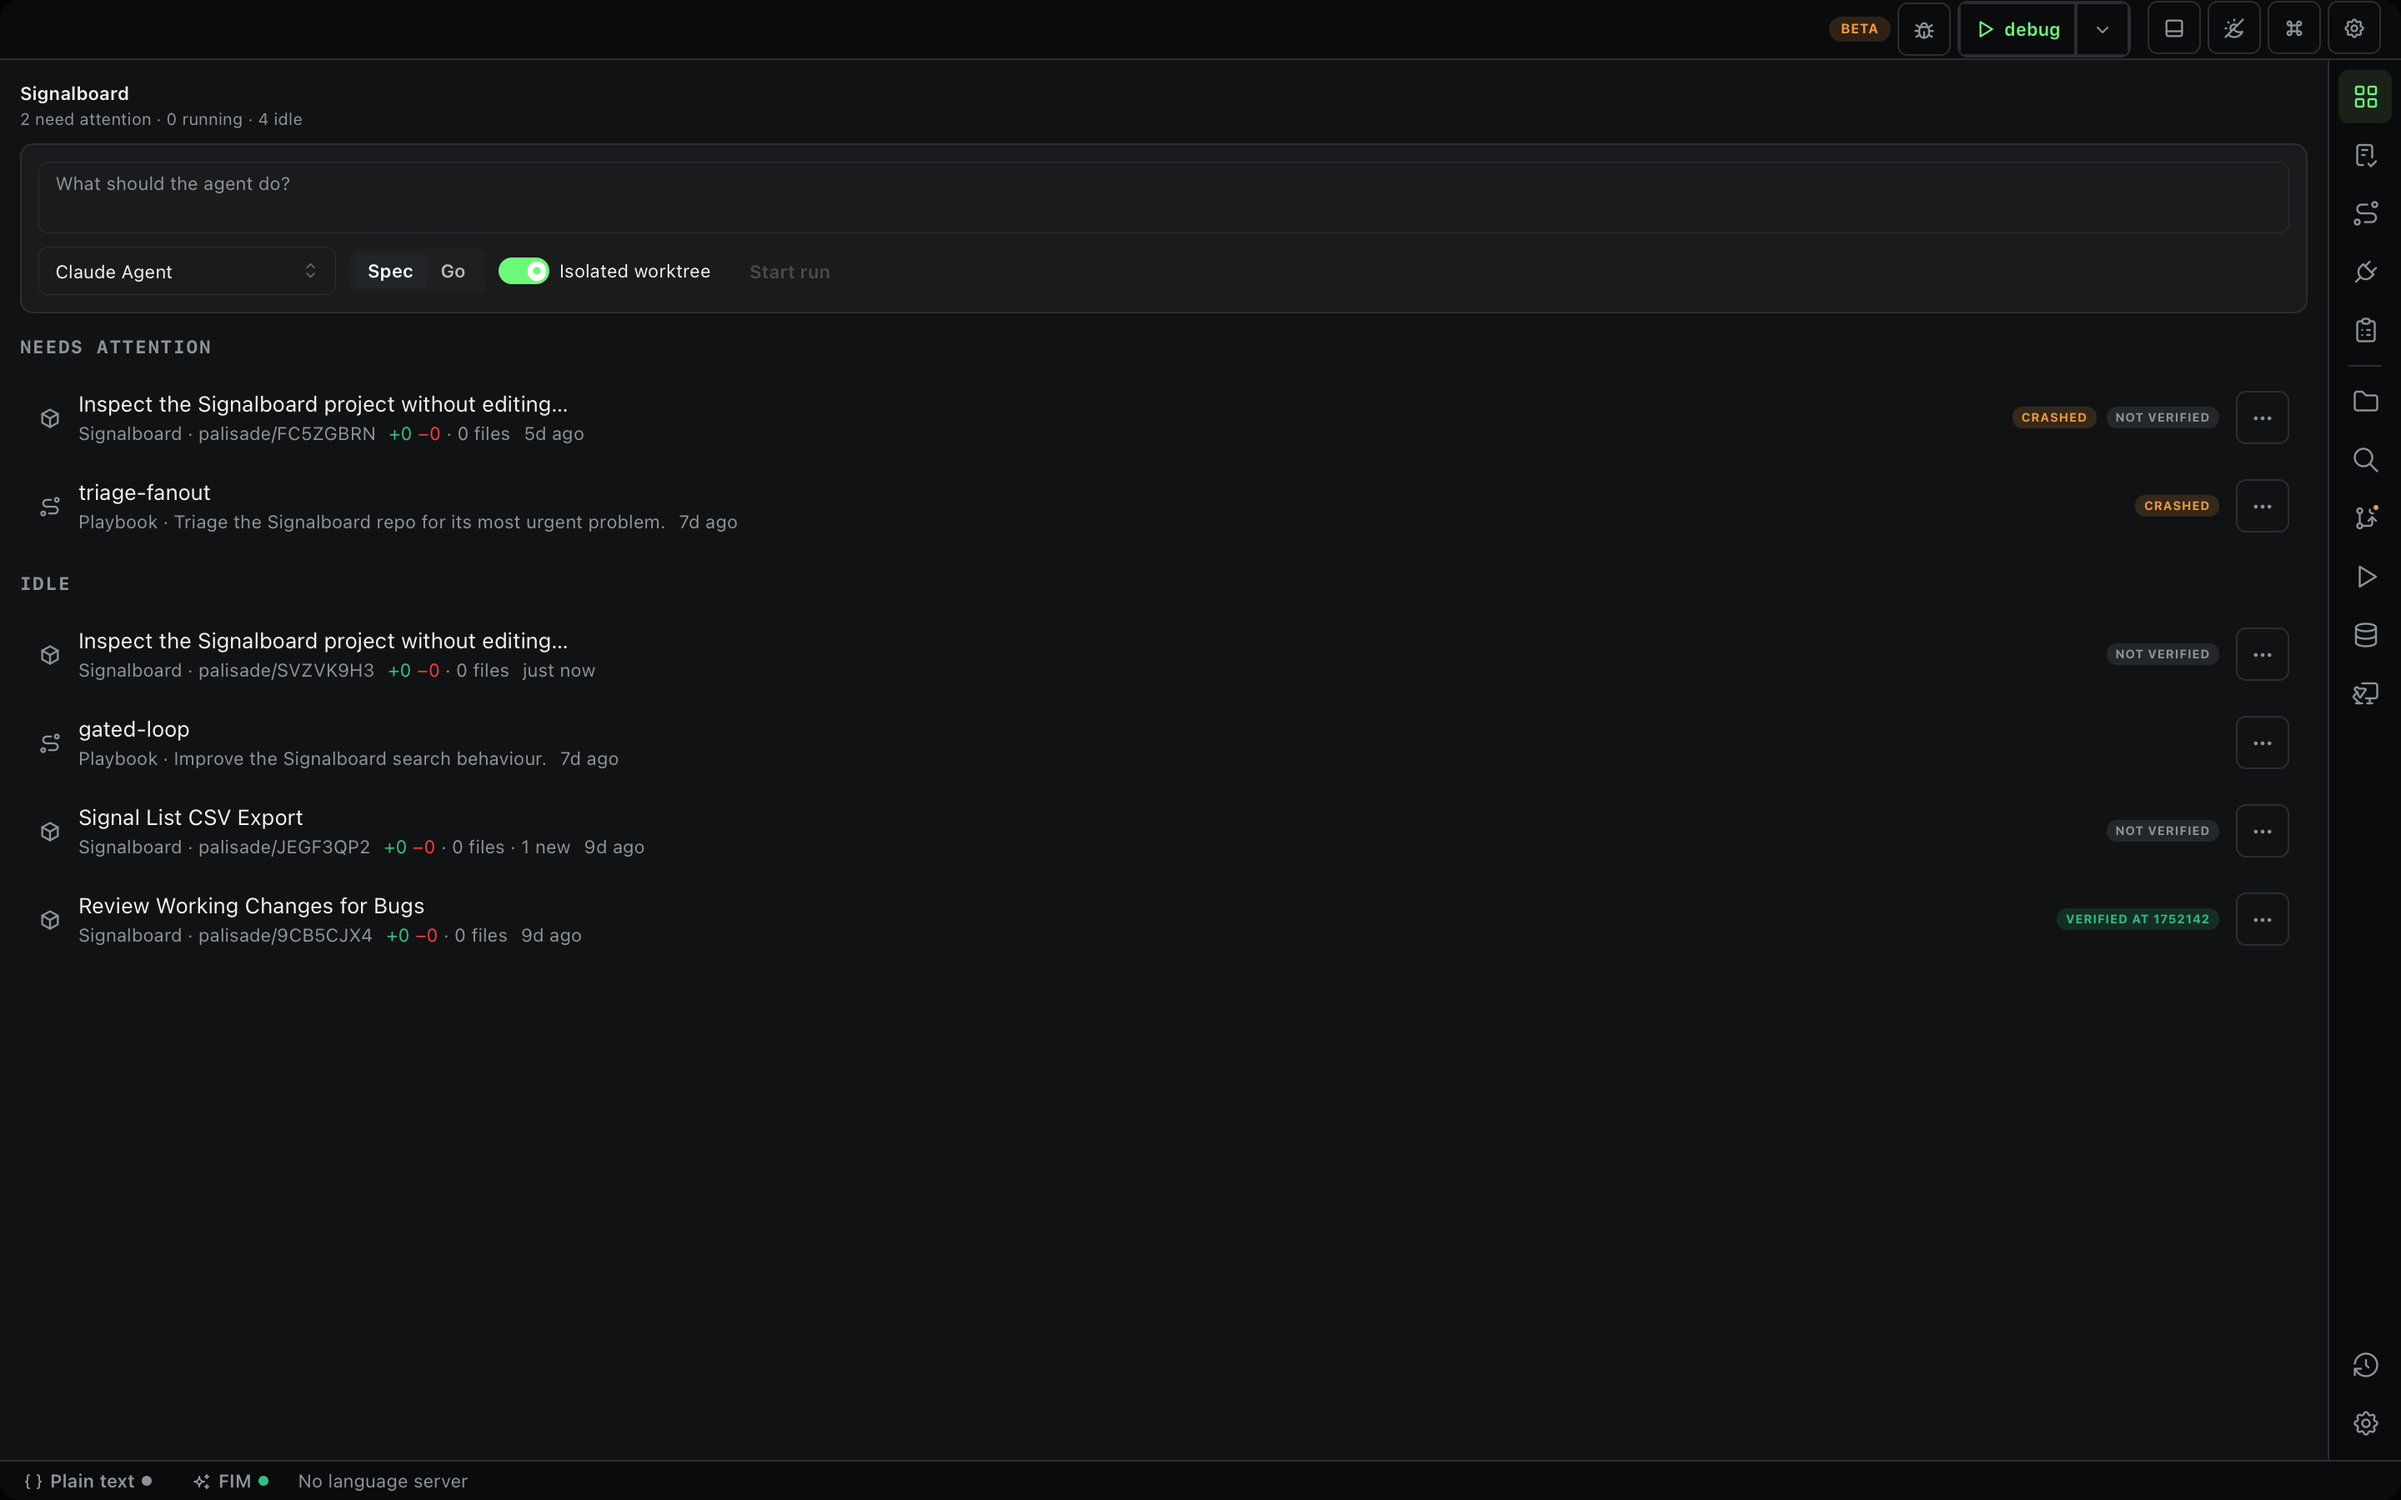
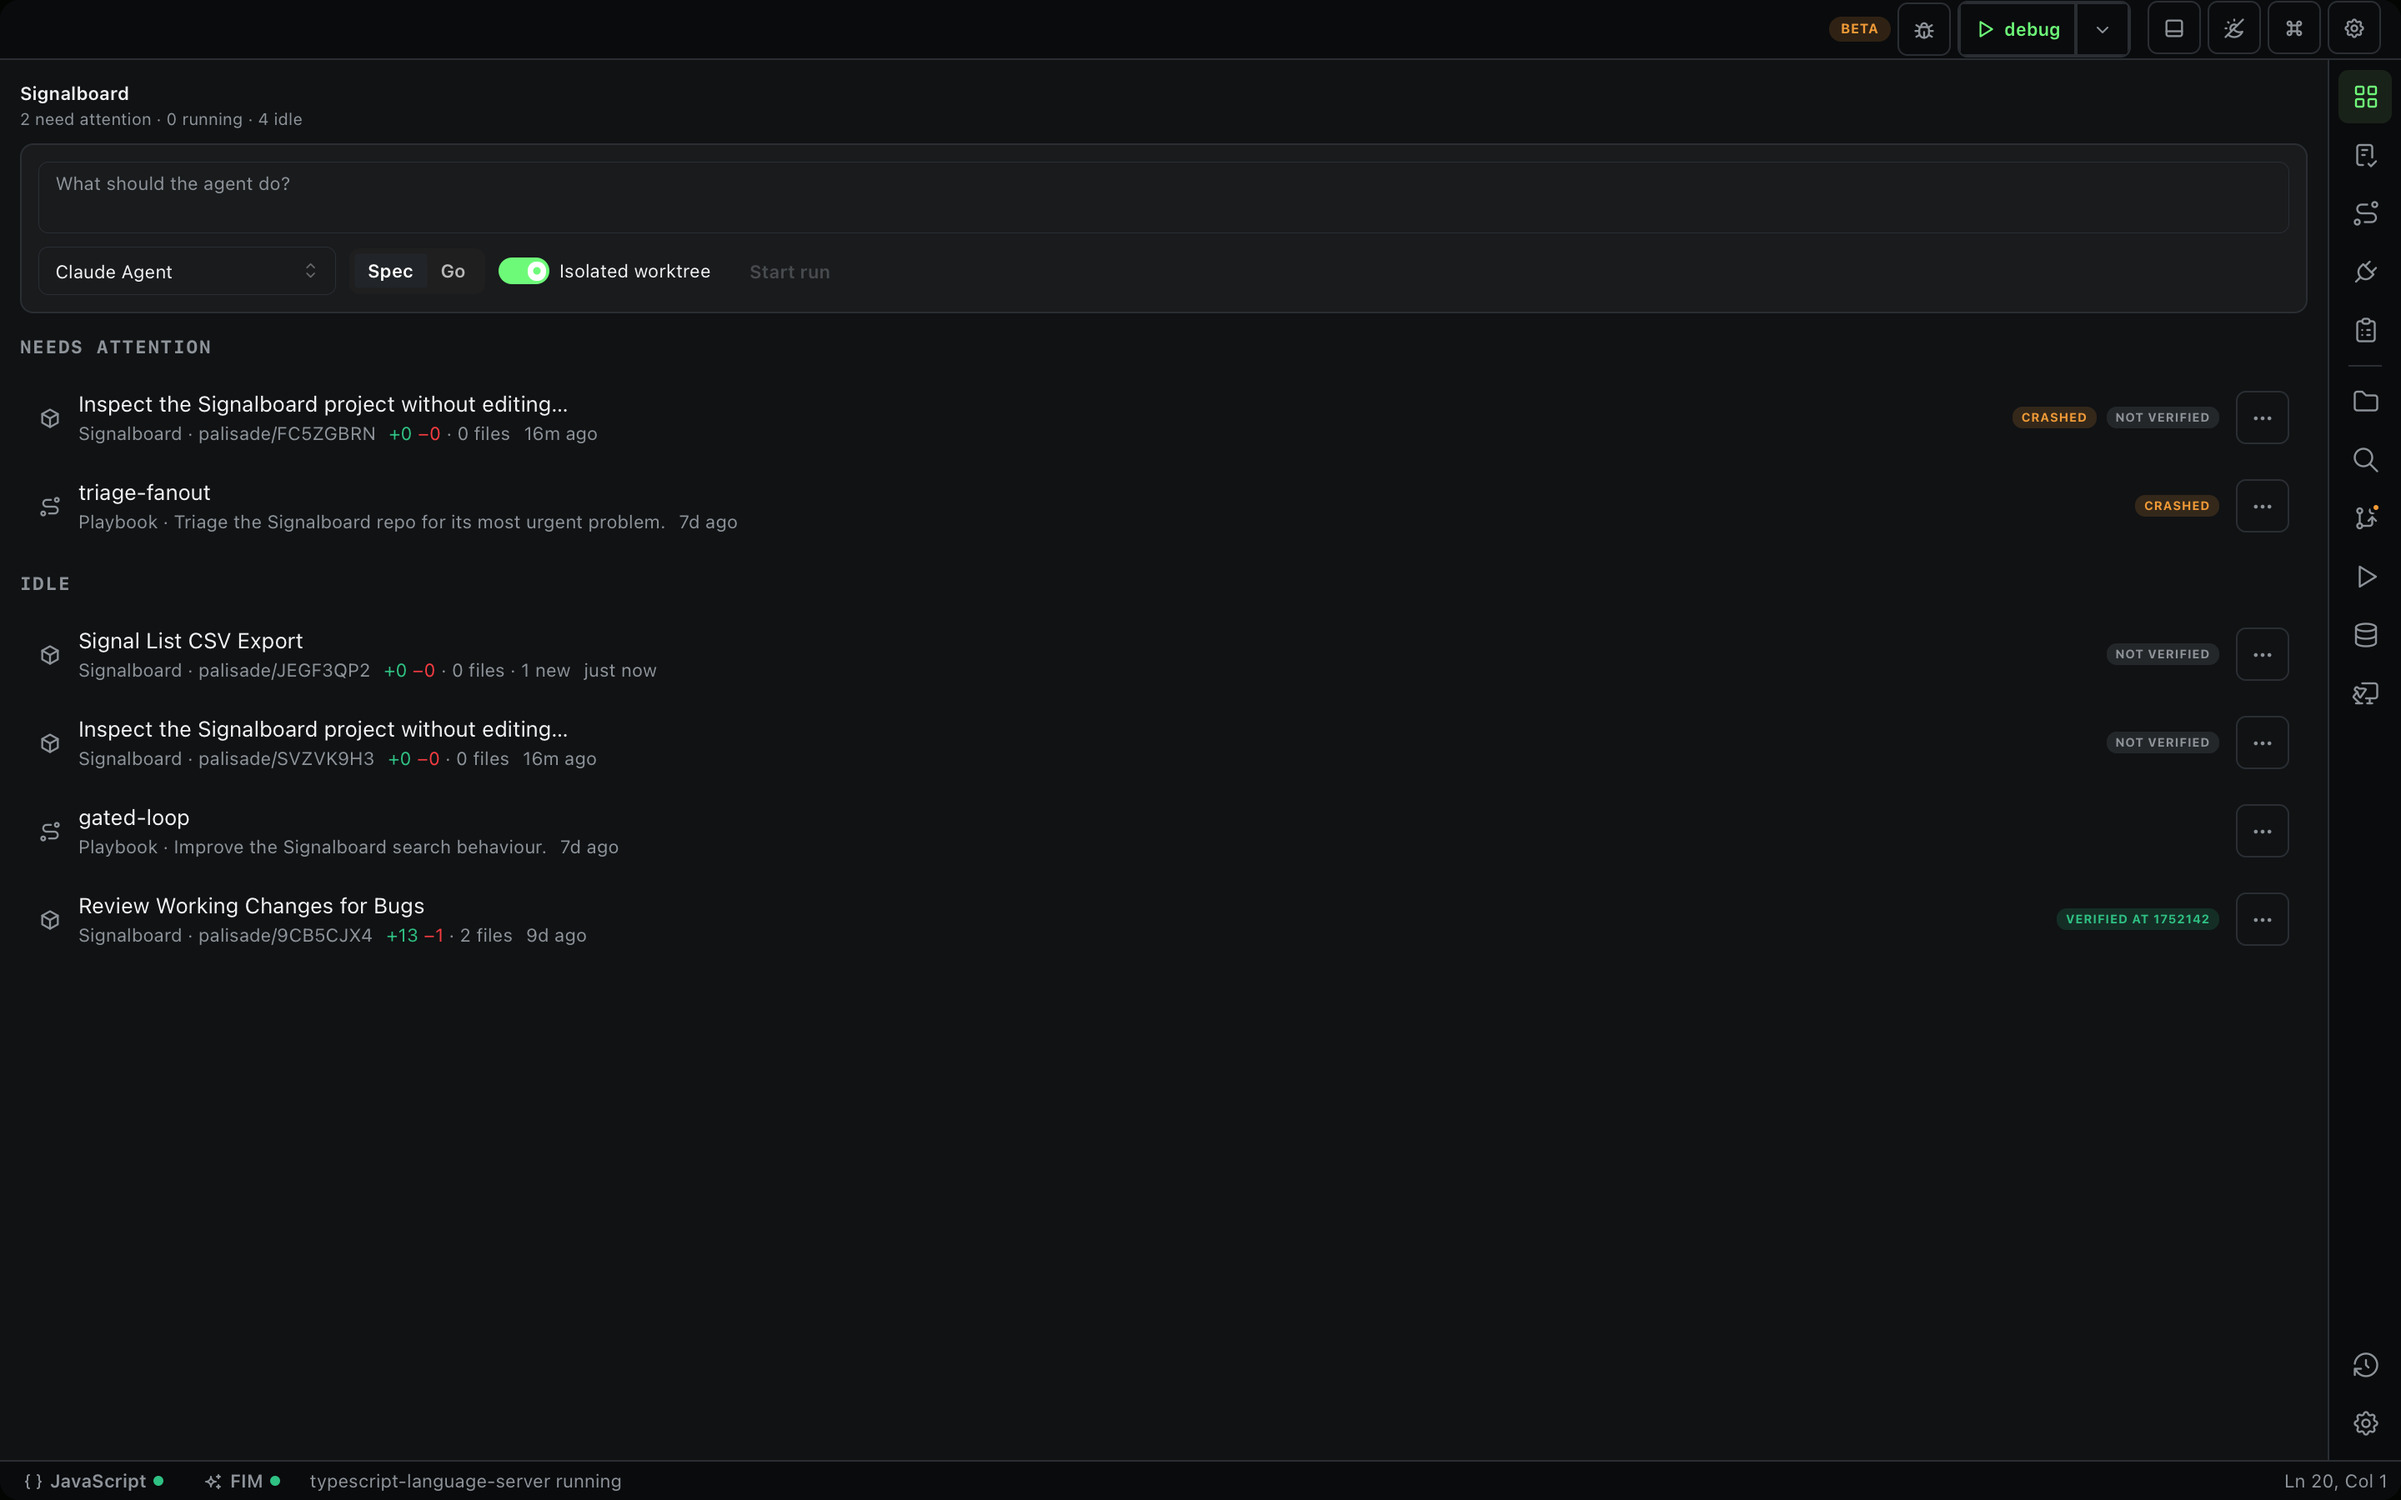
docs(ade): before/after screenshots for the ADE pivot PR; tick ade-pivot tasks
Claude-Session: https://claude.ai/code/session_014a8QPkdxBDxd7WP8vBSeG4

diff --git a/openspec/changes/ade-pivot/tasks.md b/openspec/changes/ade-pivot/tasks.md
@@ -8,33 +8,33 @@
 
 ## 2. Fleet backend
 
-- [ ] 2.1 Add `fleet_overview` IPC command in `src-tauri/src/fleet.rs` returning, per thread: status (idle/running/attention), agent, project, branch, worktree, diff stat (+/-/files), files touched, last verify (pass/fail/not-run, cmd, commit), merge readiness, and overlap (files touched by 2+ live threads in the same project).
-- [ ] 2.2 Register the command in `generate_handler!` (`lib.rs`) and add a typed wrapper in `src/api.ts`.
-- [ ] 2.3 `cd src-tauri && cargo test fleet::` green.
+- [x] 2.1 Add `fleet_overview` IPC command in `src-tauri/src/fleet.rs` returning, per thread: status (idle/running/attention), agent, project, branch, worktree, diff stat (+/-/files), files touched, last verify (pass/fail/not-run, cmd, commit), merge readiness, and overlap (files touched by 2+ live threads in the same project).
+- [x] 2.2 Register the command in `generate_handler!` (`lib.rs`) and add a typed wrapper in `src/api.ts`.
+- [x] 2.3 `cd src-tauri && cargo test fleet::` green.
 
 ## 3. Fleet board UI
 
-- [ ] 3.1 Build `src/FleetBoard.tsx` as the home view, grouped Needs attention / Running / Idle, with row fields (agent glyph, title, project·branch, diff stat, verify badge, overlap warning) and actions (Open/Review/Stop/Merge/PR/Archive).
-- [ ] 3.2 Add a "New run" composer (prompt + agent + mode + isolated worktree in one step).
-- [ ] 3.3 Update `NavRail.tsx` to put Fleet first and group IDE panels under Workbench; update `App.tsx` routing/default panel and `App.css` as needed.
-- [ ] 3.4 `npx vitest run src/__tests__/FleetBoard.test.tsx` green; app boots to Fleet.
+- [x] 3.1 Build `src/FleetBoard.tsx` as the home view, grouped Needs attention / Running / Idle, with row fields (agent glyph, title, project·branch, diff stat, verify badge, overlap warning) and actions (Open/Review/Stop/Merge/PR/Archive).
+- [x] 3.2 Add a "New run" composer (prompt + agent + mode + isolated worktree in one step).
+- [x] 3.3 Update `NavRail.tsx` to put Fleet first and group IDE panels under Workbench; update `App.tsx` routing/default panel and `App.css` as needed.
+- [x] 3.4 `npx vitest run src/__tests__/FleetBoard.test.tsx` green; app boots to Fleet.
 
 ## 4. Review lane
 
-- [ ] 4.1 Build `src/ReviewPane.tsx` composing `DiffPane` (inline/side-by-side) with per-file Viewed state persisted per thread.
-- [ ] 4.2 Add a verify evidence strip and a `MergeGate` action; Merge enabled only on a green verify or an explicit override.
-- [ ] 4.3 Add j/k file navigation; wire `App.tsx` and `api.ts` if Viewed-state persistence needs IPC.
-- [ ] 4.4 `npx vitest run src/__tests__/ReviewPane.test.tsx` green.
+- [x] 4.1 Build `src/ReviewPane.tsx` composing `DiffPane` (inline/side-by-side) with per-file Viewed state persisted per thread.
+- [x] 4.2 Add a verify evidence strip and a `MergeGate` action; Merge enabled only on a green verify or an explicit override.
+- [x] 4.3 Add j/k file navigation; wire `App.tsx` and `api.ts` if Viewed-state persistence needs IPC.
+- [x] 4.4 `npx vitest run src/__tests__/ReviewPane.test.tsx` green.
 
 ## 5. Sidebar + thread header
 
-- [ ] 5.1 Update `SessionList.tsx` rows: 3-state dot, diff stat, agent glyph, overlap badge, grouped by status.
-- [ ] 5.2 Update the open thread's header in `App.tsx` to show branch + verify badge.
-- [ ] 5.3 `npx vitest run src/__tests__/SessionList.test.tsx` green.
+- [x] 5.1 Update `SessionList.tsx` rows: 3-state dot, diff stat, agent glyph, overlap badge, grouped by status.
+- [x] 5.2 Update the open thread's header in `App.tsx` to show branch + verify badge.
+- [x] 5.3 `npx vitest run src/__tests__/SessionList.test.tsx` green.
 
 ## 6. Gate + after-screenshots + PR
 
-- [ ] 6.1 Run `pnpm test`, `cd src-tauri && cargo test`, `npx tsc --noEmit`.
-- [ ] 6.2 Run the app; capture an after-screenshot set matching `docs/pr/ade-pivot/before/*.png`.
-- [ ] 6.3 Commit before/after screenshot sets to `docs/pr/ade-pivot/`.
-- [ ] 6.4 Open the PR with a before/after table; record the PR URL.
+- [x] 6.1 Run `pnpm test`, `cd src-tauri && cargo test`, `npx tsc --noEmit`.
+- [x] 6.2 Run the app; capture an after-screenshot set matching `docs/pr/ade-pivot/before/*.png`.
+- [x] 6.3 Commit before/after screenshot sets to `docs/pr/ade-pivot/`.
+- [x] 6.4 Open the PR with a before/after table; record the PR URL.
